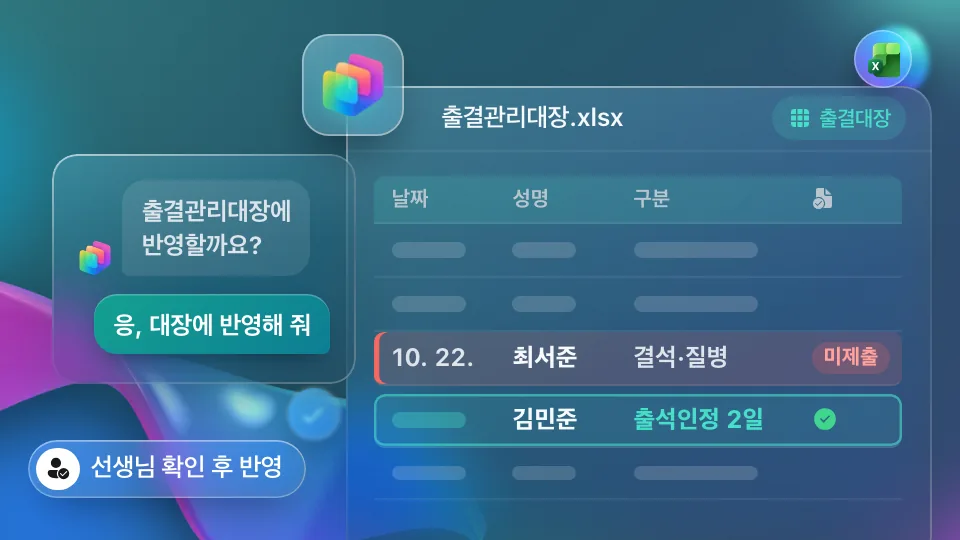
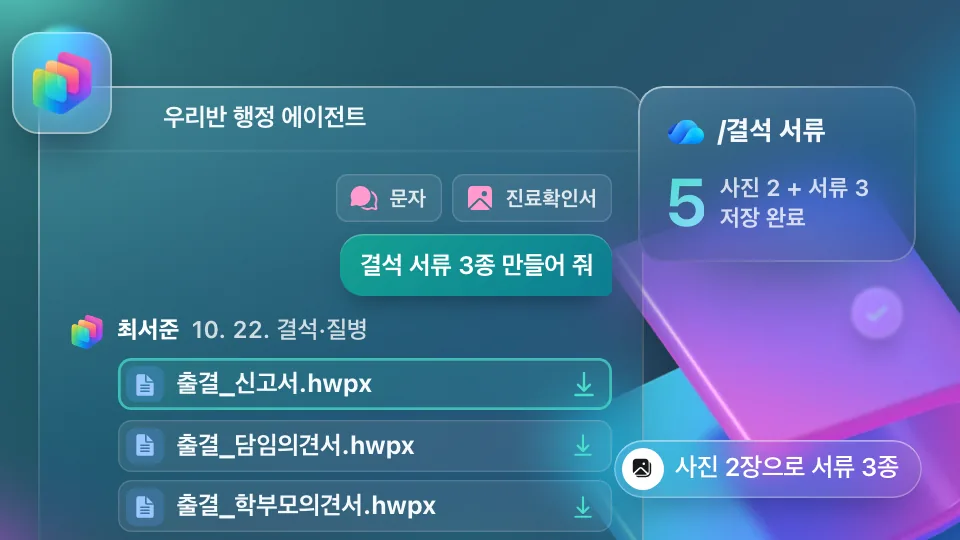
Update thumbnail for copilot-studio/hwpx-homeroom-admin-agent
WorkIQ로 행정 업무 자동화 하기

https://github.com/oneot/elevate/actions/runs/43056063774

diff --git a/tools/post-thumbs/scenes/auto/copilot-studio/hwpx-homeroom-admin-agent.js b/tools/post-thumbs/scenes/auto/copilot-studio/hwpx-homeroom-admin-agent.js
@@ -1,53 +1,72 @@
-/* copilot-studio/hwpx-homeroom-admin-agent — the attendance ledger gets a row only after the teacher says yes */
+/* copilot-studio/hwpx-homeroom-admin-agent — two photos in the chat, three HWPX absence forms back, saved to OneDrive */
 (() => {
   scene('copilot-studio/hwpx-homeroom-admin-agent', (K) => {
-    const old = `<div class="tr">${K.skel('70%')}${K.skel('60%')}${K.skel('76%')}<span></span></div>`;
+    const shot = (icon, label) => `<div class="ph">${K.ico(icon, { s: 3.4 })}<span>${label}</span></div>`;
+    const file = (name, on) => `<div class="fl${on ? ' on' : ''}"><span class="fi">${K.ico('document_text', { s: 2.8 })}</span><b>${name}</b><span class="dl">${K.ico('arrow_download', { s: 2.8 })}</span></div>`;
     return K.win({
-      x: 36, y: 9, w: 61, h: 50, title: '출결관리대장.xlsx', icon: false,
-      barRight: K.chip('출결대장', { icon: 'table', tint: true }),
-      body: `<div class="lg">
-        <div class="tr th"><span>날짜</span><span>성명</span><span>구분</span><span>${K.ico('document_checkmark', { s: 2.6 })}</span></div>
-        ${old}${old}
-        <div class="tr rd"><span>10. 22.</span><b>최서준</b><span>결석·질병</span><em>미제출</em></div>
-        <div class="tr nw">${K.skel('70%', { tint: true })}<b>김민준</b><span>출석인정 2일</span><span class="ok">${K.ico('checkmark_circle', { s: 2.8 })}</span></div>
-        ${old}
+      x: 4, y: 9, w: 63, h: 52, title: '우리반 행정 에이전트', icon: false,
+      body: `<div class="ct">
+        <div class="me">
+          <div class="att">${shot('chat_multiple', '문자')}${shot('image', '진료확인서')}</div>
+          ${K.bubble('결석 서류 3종 만들어 줘', { me: true })}
+        </div>
+        <div class="bot">
+          ${K.app(null, { s: 3.6 })}
+          <div class="col fs">
+            <p class="sm"><b>최서준</b> 10. 22. 결석·질병</p>
+            ${file('출결_신고서.hwpx', true)}
+            ${file('출결_담임의견서.hwpx')}
+            ${file('출결_학부모의견서.hwpx')}
+          </div>
+        </div>
       </div>`,
     })
       + K.card({
-        x: 5.5, y: 16, w: 31.5, cls: 'ask',
-        body: `<div class="bt">${K.app(null, { s: 3.6 })}${K.bubble('출결관리대장에<br>반영할까요?')}</div>
-          ${K.bubble('응, 대장에 반영해 줘', { me: true })}`,
+        right: 4.5, y: 9, w: 29, cls: 'od',
+        body: `<div class="oh">${K.app('onedrive', { s: 4.2 })}<b>/결석 서류</b></div>
+          <div class="ob"><span class="n t-num">5</span><span class="nl">사진 2 + 서류 3<br>저장 완료</span></div>`,
       })
-      + K.tile({ x: 31.5, y: 3.6, s: 10.5 })
-      + K.float({ right: 5, y: 3.2, app: 'excel', s: 6 })
-      + K.float({ x: 30, y: 40.5, icon: 'checkmark', s: 5.4, far: true })
-      + K.pill({ x: 3, bottom: 4.4, icon: 'person_available', text: '선생님 확인 후 반영' });
+      + K.tile({ x: 1.2, y: 3.4, s: 10.5 })
+      + K.float({ right: 6, y: 30, icon: 'checkmark', s: 5.2, far: true })
+      + K.pill({ right: 4, bottom: 4.4, icon: 'image_multiple', text: '사진 2장으로 서류 3종' });
   }, {
-    deco: { big: 'ribbon', small: 'sphere', v: 1 },
+    deco: { big: 'fold', small: 'sphere', v: 0 },
     css: `
-      .win__bar { padding-left: 10cqw; }
-      .win__bar .chip { font-size: 2.2cqw; }
-      .lg { display: flex; flex-direction: column; padding: 2.6cqw 3cqw 0; }
-      .tr { display: grid; grid-template-columns: 11cqw 11cqw 17cqw 1fr; align-items: center; gap: 1.6cqw; height: 5.6cqw; padding: 0 1.8cqw;
-        border-bottom: .15cqw solid rgba(20, 22, 30, .08); font-size: 2.6cqw; font-weight: 650; white-space: nowrap; color: var(--ink-2); }
-      .tr .skel { height: 1.6cqw; }
-      .th { height: 5cqw; border-radius: 1.2cqw 1.2cqw 0 0; background: color-mix(in srgb, rgb(var(--tint)) 12%, #fff); font-size: 2.2cqw; font-weight: 700; color: var(--ink-3); }
-      .tr b { font-weight: 750; color: var(--ink); }
-      .rd { border-radius: 1cqw; background: color-mix(in srgb, var(--red) 14%, #fff); box-shadow: inset .55cqw 0 0 var(--red); }
-      .rd em { justify-self: start; padding: .4cqw 1.2cqw; border-radius: 99px; font-style: normal; font-size: 2.2cqw; font-weight: 750; color: #c4302b; background: color-mix(in srgb, var(--red) 18%, #fff); }
-      .nw { margin-top: .8cqw; border-radius: 1.2cqw; background: color-mix(in srgb, rgb(var(--tint)) 8%, #fff); box-shadow: inset 0 0 0 .25cqw rgba(var(--tint), .6); }
-      .nw span:nth-child(3) { color: rgb(var(--tint)); font-weight: 750; }
-      .ok { color: var(--green); display: flex; }
-      .ask { z-index: 3; display: flex; flex-direction: column; gap: 2cqw; padding: 2.8cqw 2.6cqw 3cqw; }
-      .bt { display: flex; align-items: flex-end; gap: 1.1cqw; }
-      .ask .bubble { max-width: none; font-size: 2.6cqw; font-weight: 650; line-height: 1.38; white-space: nowrap; }
-      .ask .bubble--me { align-self: flex-end; }
+      .win__bar { padding-left: 13cqw; }
+      .ct { display: flex; flex-direction: column; gap: 2cqw; padding: 2.4cqw 3.2cqw; }
+      .me { display: flex; flex-direction: column; align-items: flex-end; gap: 1.2cqw; }
+      .att { display: flex; gap: 1.2cqw; }
+      .ph { display: flex; align-items: center; gap: .9cqw; height: 5cqw; padding: 0 1.6cqw 0 1.2cqw; border-radius: 1.2cqw;
+        background: rgba(255, 255, 255, .7); box-shadow: inset 0 0 0 .18cqw var(--line); font-size: 2.2cqw; font-weight: 650; color: var(--ink-2); white-space: nowrap; }
+      .ph .ico { color: var(--pink); }
+      .me .bubble { font-size: 2.6cqw; font-weight: 650; white-space: nowrap; max-width: none; }
+      .bot { display: flex; gap: 1.4cqw; align-items: flex-start; }
+      .fs { gap: 1cqw; flex: 1; }
+      .sm { font-size: 2.5cqw; font-weight: 600; color: var(--ink-2); white-space: nowrap; margin-bottom: .2cqw; }
+      .sm b { font-weight: 750; color: var(--ink); margin-right: .6cqw; }
+      .fl { display: flex; align-items: center; gap: 1.4cqw; height: 5.4cqw; padding: 0 1.6cqw 0 1cqw; border-radius: 1.4cqw;
+        background: rgba(255, 255, 255, .72); box-shadow: inset 0 0 0 .18cqw var(--line); }
+      .fl b { flex: 1; font-size: 2.6cqw; font-weight: 700; white-space: nowrap; letter-spacing: -0.01em; }
+      .fi { position: relative; display: grid; place-items: center; width: 3.8cqw; height: 3.8cqw; border-radius: 1cqw;
+        background: color-mix(in srgb, var(--blue) 16%, #fff); color: var(--blue); }
+      .dl { display: flex; color: rgb(var(--tint)); }
+      .fl.on { box-shadow: inset 0 0 0 .28cqw rgba(var(--tint), .75); background: color-mix(in srgb, rgb(var(--tint)) 9%, #fff); }
+      .od { z-index: 3; display: flex; flex-direction: column; gap: 1.8cqw; padding: 2.6cqw 2.8cqw 2.8cqw; }
+      .oh { display: flex; align-items: center; gap: 1.2cqw; }
+      .oh b { font-size: 2.8cqw; font-weight: 750; white-space: nowrap; }
+      .ob { display: flex; align-items: center; gap: 1.6cqw; }
+      .ob .n { font-size: 7cqw; line-height: 1; background: var(--grad); -webkit-background-clip: text; background-clip: text; color: transparent; }
+      .nl { font-size: 2.4cqw; font-weight: 650; line-height: 1.35; color: var(--ink-2); white-space: nowrap; }
+      .win__bar > span:not(.sp) { font-weight: 700; }
       &.dark {
-        .tr { border-bottom-color: rgba(255, 255, 255, .08); }
-        .th { background: rgba(var(--tint), .16); }
-        .rd { background: rgba(255, 107, 102, .16); }
-        .rd em { color: #ffa29c; background: rgba(255, 107, 102, .2); }
-        .nw { background: rgba(var(--tint), .12); }
+        .ph, .fl { background: rgba(255, 255, 255, .08); box-shadow: inset 0 0 0 .15cqw rgba(255, 255, 255, .14); }
+        .ph { color: rgba(255, 255, 255, .85); }
+        .ph .ico { color: #ff9ccf; }
+        .sm, .nl { color: rgba(255, 255, 255, .78); }
+        .sm b { color: #fff; }
+        .fi { background: rgba(90, 162, 255, .22); color: #9cc6ff; }
+        .fl.on { background: rgba(var(--tint), .14); box-shadow: inset 0 0 0 .28cqw rgba(var(--tint), .7); }
+        .ob .n { background: linear-gradient(135deg, rgb(var(--tint)), #8fd8ff); -webkit-background-clip: text; background-clip: text; }
       }
     `,
   });
